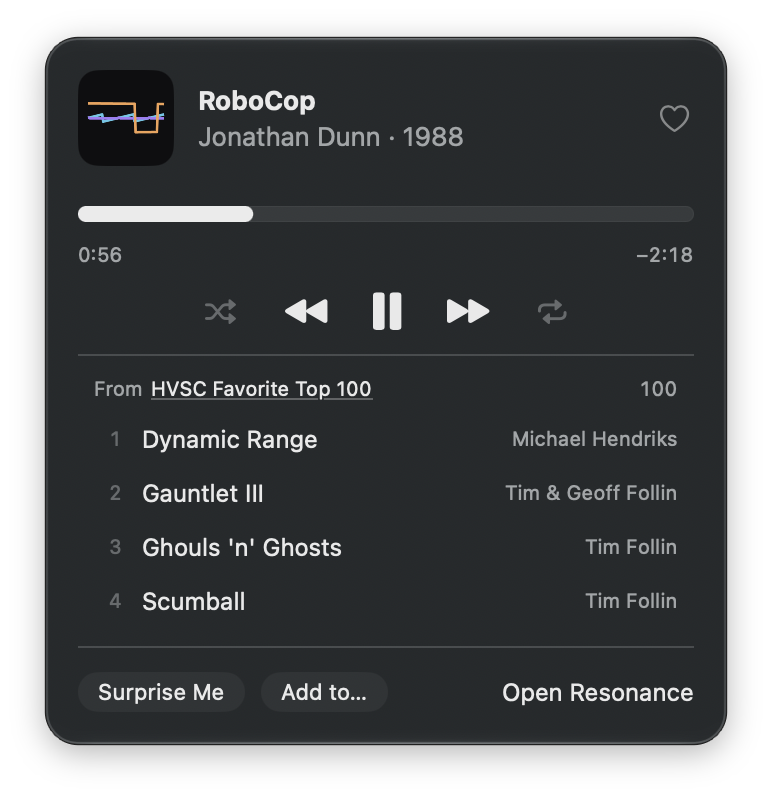
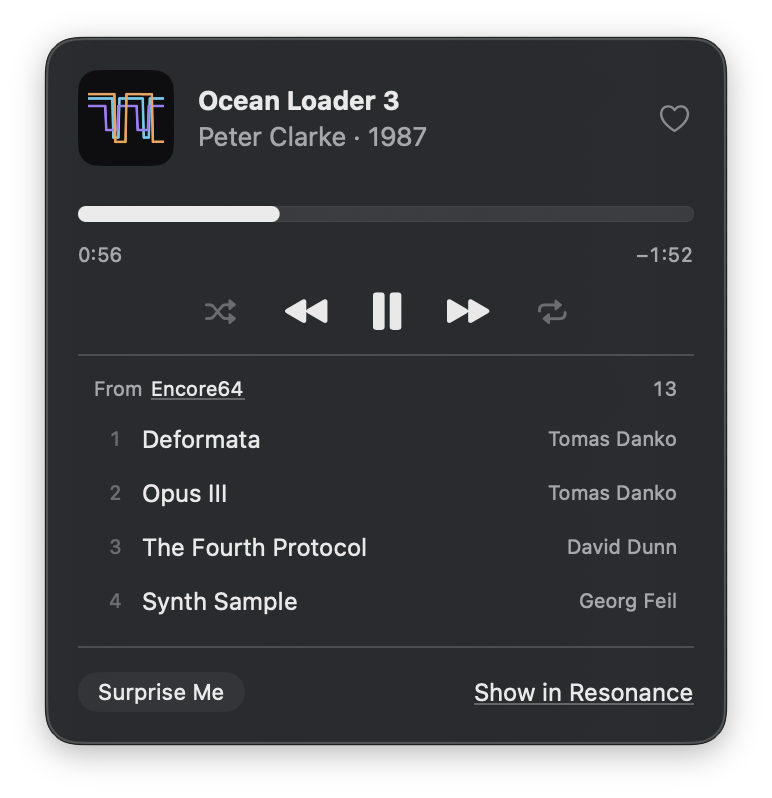
README and website: the four engines, menu bar player, comparison redone
The README names the libsidplayfp player and the reSIDfp default. The
site's engines tile lists all four, Under the hood says where reSIDfp
renders, the download wording follows the sidebar's new icon, and the
menu bar tile describes Surprise Me and the Show in Resonance link, with
a fresh screenshot of the panel.

The Resonance-or-Phosphor table is checked against both READMEs and
grows to eighteen rows: playlists, stereo, visualizers, the menu bar
player against Phosphor's compact window, Control Center's Now Playing
and media keys, share links, updates, and Assembly64 on Phosphor's side.

diff --git a/apple/site/index.html b/apple/site/index.html
@@ -280,7 +280,7 @@
           <p class="kicker">The collection</p>
           <h2>All of HVSC.<br><span class="grad">Kept current for you.</span></h2>
           <p class="section-lede">
-            No collection yet? Click Download and Resonance fetches the High Voltage SID Collection.
+            No collection yet? Click the download arrow next to Collection and Resonance fetches the High Voltage SID Collection.
             When a new release comes out, it says so, updates in one click, and shows what the release
             added: new tunes, new composers, new STIL notes.
           </p>
@@ -382,13 +382,13 @@
           <article class="tile" data-reveal>
             <div class="tile-icon"><svg class="i"><use href="#i-keyboard"/></svg></div>
             <h3>Now Playing &amp; media keys</h3>
-            <p>Shows up in Control Center, answers your keyboard's media keys, and puts every command in a Playback menu.</p>
+            <p>Shows up in Control Center's Now Playing, answers your keyboard's media keys, and puts every command in a Playback menu.</p>
           </article>
 
           <article class="tile" data-reveal>
             <div class="tile-icon" style="--c: var(--v1)"><svg class="i"><use href="#i-cpu"/></svg></div>
-            <h3>Two engines</h3>
-            <p>SIDLite from libsidplayfp picks the chip model from each tune's header; reSID emulates the chip cycle by cycle.</p>
+            <h3>Four engines</h3>
+            <p>reSIDfp, libsidplayfp's reference emulation, is the default. SIDLite direct is the lightest, and Phosphor's SIDLite and reSID are still there.</p>
           </article>
 
           <article class="tile" data-reveal>
@@ -413,10 +413,10 @@
             <div class="tile-text">
               <div class="tile-icon" style="--c: var(--v1)"><svg class="i"><use href="#i-play"/></svg></div>
               <h3>A player in the menu bar</h3>
-              <p>Click the icon, or press <kbd>⌃</kbd><kbd>⌥</kbd><kbd>⌘</kbd><kbd>P</kbd> in any app: the tune and its voices, the heart, the controls, what's next in the list it plays from, Surprise Me and Add to…. Close the window and the music plays on.</p>
+              <p>Click the icon, or press <kbd>⌃</kbd><kbd>⌥</kbd><kbd>⌘</kbd><kbd>P</kbd> in any app: the tune and its voices, the heart, the controls, what's next in the list it plays from, Surprise Me, and a link that opens the tune in Resonance. Close the window and the music plays on.</p>
             </div>
             <img class="tile-shot" src="media/mini-player.png" width="386" height="399" loading="lazy"
-                 alt="The menu bar player: RoboCop by Jonathan Dunn playing, with the next four tunes from HVSC Favorite Top 100">
+                 alt="The menu bar player: Ocean Loader 3 by Peter Clarke playing, with the next four tunes from Encore64">
           </article>
 
           <article class="tile tile-full tile-split" data-reveal>
@@ -506,7 +506,8 @@
             Resonance is its own app, but it doesn't reinvent SID playback. It compiles the engine of
             <a href="https://sandlbn.github.io/Phosphor/">Phosphor</a>, Marcin Spoczynski's open-source
             Rust player, without changing a line, and talks to it through UniFFI. Improvements upstream
-            flow straight into the Mac app.
+            flow straight into the Mac app. For the sound itself it adds libsidplayfp's reSIDfp,
+            rendered straight into the audio output.
           </p>
         </div>
 
@@ -524,8 +525,8 @@
             </li>
             <li style="--c: var(--v3)">
               <span class="layer-name">libphosphor_apple</span>
-              <span class="layer-desc">Rust · session state machine · driver thread · FFI</span>
-              <span class="layer-note">One thread owns playback and publishes an immutable snapshot after every step</span>
+              <span class="layer-desc">Rust · session state machine · driver thread · libsidplayfp player · FFI</span>
+              <span class="layer-note">One thread owns playback and publishes an immutable snapshot after every step; reSIDfp and SIDLite direct render in the audio callback</span>
             </li>
             <li style="--c: #8e93a8">
               <span class="layer-name">Phosphor engine</span>
@@ -536,21 +537,28 @@
 
           <div class="compare glass-panel" data-reveal>
             <h3>Resonance or Phosphor?</h3>
-            <p class="dim">Same engine, different jobs. Got a USBSID-Pico or an Ultimate&nbsp;64? Phosphor drives real hardware; Resonance doesn't, yet.</p>
+            <p class="dim">Same Phosphor engine, different jobs. Got a USBSID-Pico or an Ultimate&nbsp;64? Phosphor drives real hardware; Resonance doesn't, yet.</p>
             <table>
               <thead><tr><th></th><th>Resonance</th><th>Phosphor</th></tr></thead>
               <tbody>
                 <tr><td>Runs on</td><td>macOS 27, Apple silicon</td><td>macOS, Windows, Linux</td></tr>
                 <tr><td>Interface</td><td>SwiftUI, Liquid Glass</td><td>Iced (Rust)</td></tr>
                 <tr><td>reSID &amp; SIDLite emulation</td><td class="yes">✓</td><td class="yes">✓</td></tr>
+                <tr><td>reSIDfp emulation (libsidplayfp)</td><td class="yes">✓</td><td class="no">—</td></tr>
                 <tr><td>HVSC browser, search, Surprise Me</td><td class="yes">✓</td><td class="yes">✓</td></tr>
                 <tr><td>Songlengths &amp; STIL</td><td class="yes">✓</td><td class="yes">✓</td></tr>
                 <tr><td>HVSC download, favourites, history</td><td class="yes">✓</td><td class="yes">✓</td></tr>
-                <tr><td>Sounds Like &amp; Sound Map</td><td class="yes">✓</td><td class="no">—</td></tr>
-                <tr><td>Control Center &amp; media keys</td><td class="yes">✓</td><td class="no">—</td></tr>
+                <tr><td>Playlists, drag &amp; drop, M3U files</td><td class="yes">✓</td><td class="yes">✓</td></tr>
+                <tr><td>2SID, 3SID &amp; pseudo-stereo</td><td class="yes">✓</td><td class="yes">✓</td></tr>
+                <tr><td>Visualizers</td><td>Halo, Particles, Radial, Sound Map</td><td>Bars, Scope, Tracker</td></tr>
+                <tr><td>Sounds Like, Find Similar &amp; sound filters</td><td class="yes">✓</td><td class="no">—</td></tr>
+                <tr><td>Small player</td><td>In the menu bar, from any app</td><td>A compact window</td></tr>
+                <tr><td>Now Playing in Control Center, media keys</td><td class="yes">✓</td><td class="no">—</td></tr>
+                <tr><td>Share links with preview cards</td><td class="yes">✓</td><td class="no">—</td></tr>
+                <tr><td>Updates</td><td>Built in</td><td>GitHub Releases</td></tr>
                 <tr><td>Imports Phosphor's settings, favourites &amp; history</td><td class="yes">✓</td><td class="no">—</td></tr>
                 <tr><td>USBSID-Pico &amp; Ultimate 64</td><td class="no">—</td><td class="yes">✓</td></tr>
-                <tr><td>Pedalboard FX, web remote, karaoke</td><td class="no">—</td><td class="yes">✓</td></tr>
+                <tr><td>Pedalboard FX, web remote, karaoke, Assembly64</td><td class="no">—</td><td class="yes">✓</td></tr>
               </tbody>
             </table>
           </div>
@@ -593,7 +601,7 @@
             <li>
               <span class="step-n">2</span>
               <h3>Get the collection</h3>
-              <p>No HVSC yet? Click Download next to Collection in the sidebar. Already have it? Choose its folder in Settings → Collection, or import Phosphor's in Settings → Advanced.</p>
+              <p>No HVSC yet? Click the download arrow next to Collection in the sidebar. Already have it? Choose its folder in Settings → Collection, or import Phosphor's in Settings → Advanced.</p>
             </li>
             <li>
               <span class="step-n">3</span>

diff --git a/apple/README.md b/apple/README.md
@@ -1,8 +1,9 @@
 # Resonance — native macOS front-end
 
 A SwiftUI app for macOS 27 (Apple silicon) that plays SID music through the
-Phosphor engine. The Rust engine is shared with the Iced app; nothing under
-`../src` was changed to make this work.
+Phosphor engine, and through its own libsidplayfp player: reSIDfp, the
+default, and SIDLite direct. The Rust engine is shared with the Iced app;
+nothing under `../src` was changed to make this work.
 
 ## Build and run
 
@@ -88,7 +89,8 @@ Resonance.app            SwiftUI (Swift 6, main-actor by default)    Resonance/
     rendered; the chips report their registers, envelopes and waveforms, so
     the visualizers get the real thing instead of `viz.rs`'s shadow reSID.
     The driver swaps player threads when switching to or from it. Pseudo
-    stereo (Widen mono tunes) isn't implemented on it.
+    stereo (Widen mono tunes) isn't implemented on it. reSIDfp is the
+    default engine; Settings → Playback lists all four.
   - `build.rs` — reads upstream's version from the root `Cargo.toml`, so
     `phosphor_version()` (shown in About Resonance) follows upstream merges.
 - **`residfp-sys/`** — libsidplayfp 3.1.2 (with its SIDLite chip) and
